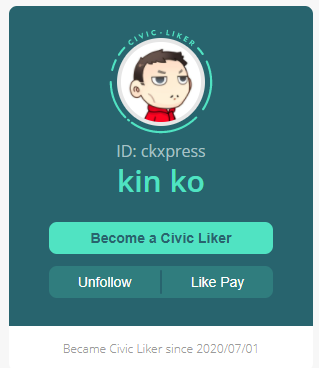
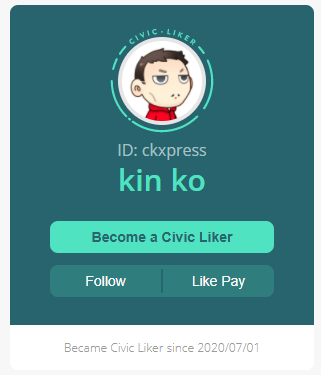
GitBook: [en] 2 pages and 3 assets modified

Changed region(s): [[0.1411, 0.5679, 0.8746, 0.8071], [0.3386, 0.0598, 0.6771, 0.538], [0.0282, 0.0, 0.9875, 0.9565]]

diff --git a/user-guide/creator/portfolio-page.md b/user-guide/creator/portfolio-page.md
@@ -12,21 +12,23 @@ Method 2: The Portfolio Page url is https://liker.land/\[Your Liker ID\], if you
 
 ## Personal Information
 
-The left hand side of the Portfolio Page displays information of the content creator, including name, Liker ID, the date became Civic Liker and the following functions:
+The left hand side of the Portfolio Page displays information of the content creator, including name, Liker ID, the date became Civic Liker with the following functions:
 
-* Become a Civic Liker - If readers click on it and become Civic Liker, Content Creator can receive USD5 equivalent LikeCoin bonus upon each successful Cvic Liker referral, to read more please go to [LikeCoin Token・Making LikeCoin](https://docs.like.co/user-guide/likecoin-token/how-do-i-make-likecoin)
-* 追蹤－點擊並追蹤作為內容伯樂的作者
-* LIKE Pay－直接轉帳 LikeCoin 予作者
+* Become a Civic Liker - If Readers click on it and become Civic Liker, Content Creator can receive USD5 equivalent LikeCoin bonus upon each successful Civic Liker referral, to read more please go to [LikeCoin Token・Making LikeCoin](https://docs.like.co/user-guide/likecoin-token/how-do-i-make-likecoin)
+* Follow - Click and follow Content Creator as a Content Jockey
+* LIKE Pay－Transfer LikeCoin to the Content Creator
 
 ![](../../.gitbook/assets/portfolio-page-3-en.png)
 
-## 作品
+## Works
 
-假若作者曾 Super Like 自己的文章均會展示於此頁。
+If the Content Creator Super Liked his/her own works, they will be displayed in here.
 
-![](../../.gitbook/assets/portfolio-page-1.png)
+![](../../.gitbook/assets/portfolio-page-1-en.png)
 
-## 已 Super Like 的內容
+## Super Likes
 
-Super Like 履歷功能展示作者曾經 Super Like 過甚麼好文。
+Super Likes history displayed all the other works and articles Super Liked by the Content Creator.
+
+![](../../.gitbook/assets/portfolio-page-2-en%20%281%29.png)
 

diff --git a/user-guide/reader/superlike.md b/user-guide/reader/superlike.md
@@ -38,7 +38,7 @@ Super Like redefines the definition of "Share", Share = Rewards. Not only creato
 
 Only [Civic Liker](https://docs.like.co/user-guide/civic-liker) can enjoy Super Like twice a day.  \[[Join **Civic Liker**](https://liker.land/civic)\]
 
-## Super Like History
+## Super Likes History
 
 Wanna review all the Super Liked articles? Go to your Portfolio Page https://liker.land/\[Your Liker ID\] and click "Super Likes" to check them out, if your Liker ID is ckxpress, the link is going to be https://liker.land/ckxpress. Users can also visit friends and celebrities' Portfolio Page and follow them, in order to understand their reading taste.
 
